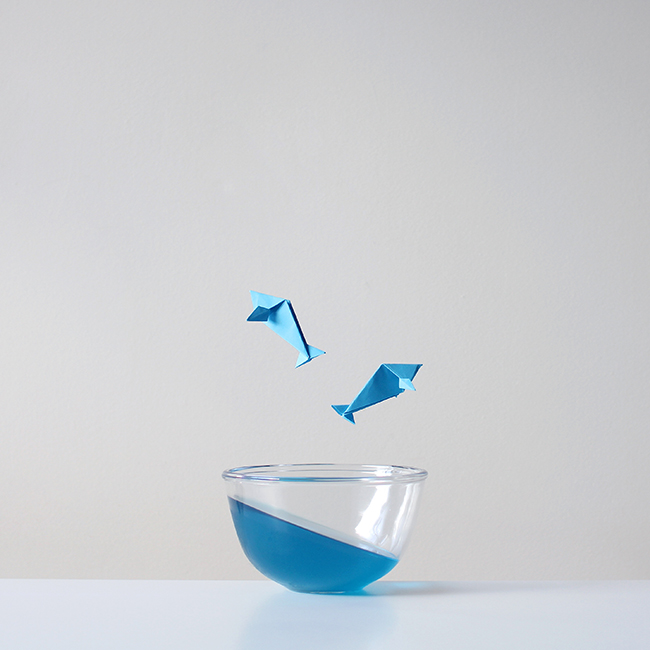
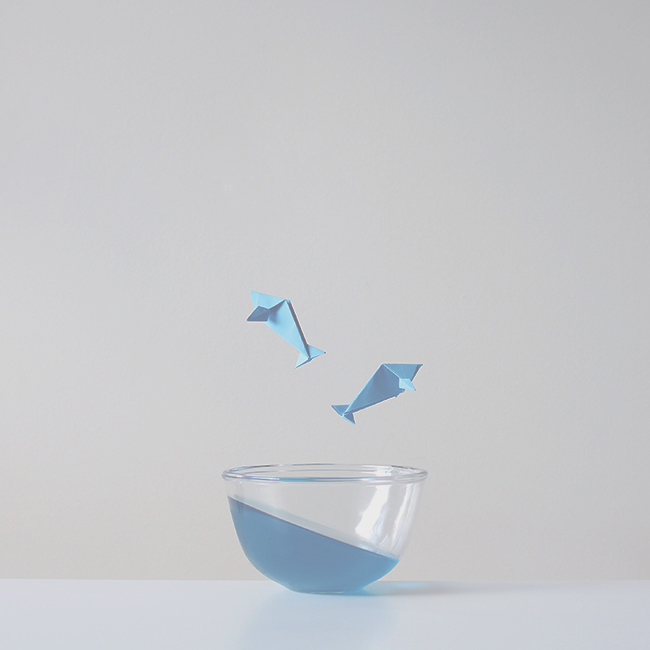
Added link skeleton to the learn-it page

diff --git a/public/css/style.css b/public/css/style.css
@@ -42,7 +42,6 @@ nav a {
 }
 
 #container-Home {
-  opacity: 0.5;
   height: 600px;
   width: 100%;
   background: url("/images/motion.jpg");
@@ -51,7 +50,6 @@ nav a {
   }
 
 #container-About{
-  opacity: 0.5;
   height: 700px;
   width: 100%;
   background: url("/images/boat.jpg");
@@ -71,16 +69,36 @@ nav a {
 	font-size: 30px;
 }
 
-#container-LearnIt{
-  opacity: 0.5;
+#container-LearnIt {
   height: 700px;
   width: 100%;
   background: url("/images/fish.jpg");
   background-repeat: no-repeat;
   background-position: center;
   }
+
+#links-div {
+	height: 200px;
+	width: 50%;
+	margin: 0 auto;
+	position: relative;
+	top: 30px;
+	text-align: center;
+}
+
+.title {
+	text-transform: uppercase;
+	text-decoration: none;
+	font-size: 23px;
+	color: white;
+	font-weight: 900;
+}
+
+.title:hover {
+	color: #00BFFF;
+}
+
 #container-InAction{
-  opacity: 0.5;
   height: 700px;
   width: 100%;
   background: url("/images/hands.jpg");
